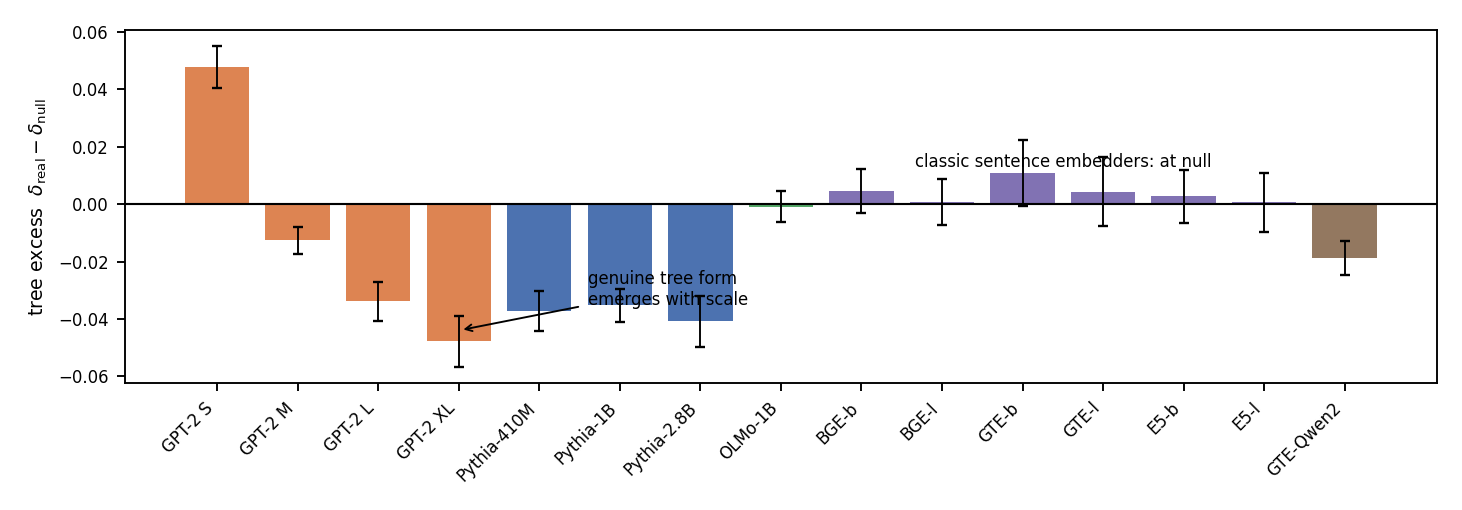
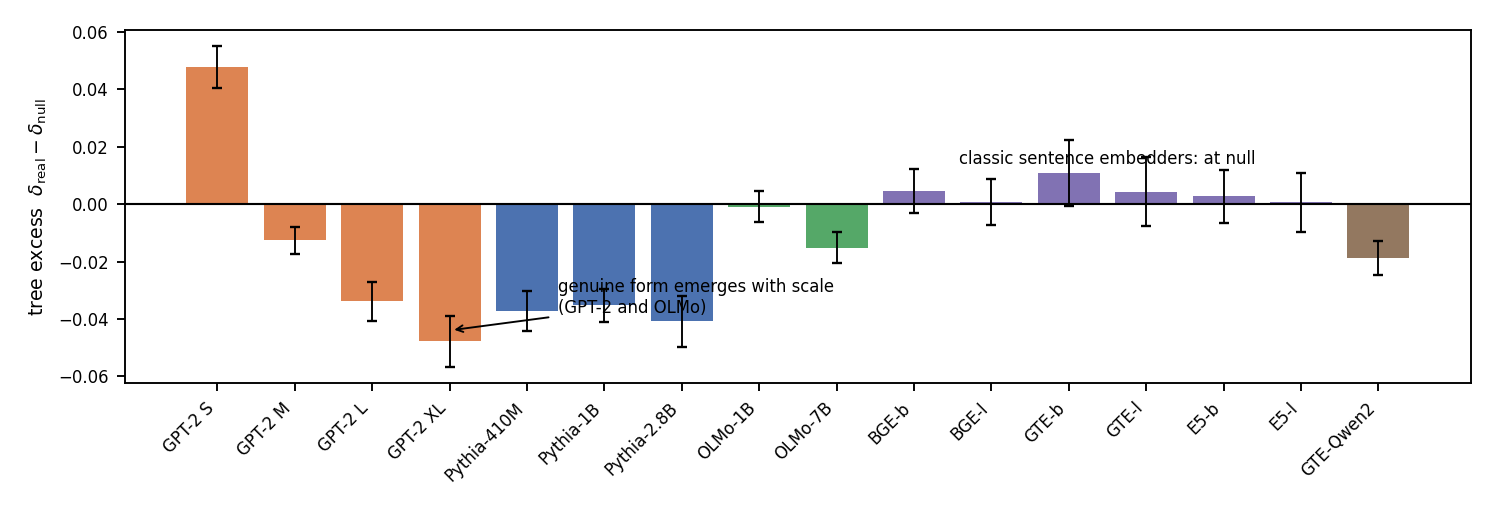
Text census complete (16/16): OLMo-7B genuine (-0.015), scale-emergence confirmed in a second family; figure, appendix table and all text updated; census now fully closed

diff --git a/iclr2027/iclr2027/main_iclr2027.tex b/iclr2027/iclr2027/main_iclr2027.tex
@@ -41,7 +41,7 @@
 \maketitle
 
 \begin{abstract}
-Foundation models are often claimed to converge toward shared representations; recent calibrated analyses show that much of that convergence reflects uncalibrated similarity measures. We ask the same question of geometry: what structure of a model's inter-class representation survives calibrated measurement, and is it shared across models? We measure tree-likeness (Gromov $\delta$-hyperbolicity, Ollivier--Ricci curvature) for class representations of frozen foundation models, calibrating every reading on reference geometries and against nulls matched in dimension and covariance spectrum, since raw $\delta$ is confounded by dimension, class count, and spectrum. Three findings emerge. (1)~Genuine tree-like \emph{form} is widespread but not universal: 69 of 72 vision model$\times$dataset combinations sit below their matched null (41 of the 48 cells with $\ge$47 classes beyond two null standard deviations), while in text it depends on the training recipe and scale, emerging monotonically with size in GPT-2 and absent in classic sentence embedders on the same probe, whose raw $\delta$ equals that of vision-contrastive models yet reflects only their covariance spectrum. Where present, the form is learned: it vanishes under random weights, weakens under non-hierarchical fine-tuning, and emerges across depth. (2)~The \emph{content} is model-specific: the most tree-like family is the least aligned with WordNet, and hyperbolic distances do not increase cross-model agreement; models converge in the form of their class geometry, not in its content. (3)~As a corollary, the calibrated descriptors support a modest, training-free decision rule: they predict when leaving Euclidean distances pays on prototype-based tasks, and the training objective selects which zero-cost metric collects the gain. A class-subsampling study shows the operative variable is the depth of hierarchy spanned by the class set, not the number of classes: tree-like form is a property of the (model, concept set) pair, and raw $\delta$ alone cannot tell you where it is.
+Foundation models are often claimed to converge toward shared representations; recent calibrated analyses show that much of that convergence reflects uncalibrated similarity measures. We ask the same question of geometry: what structure of a model's inter-class representation survives calibrated measurement, and is it shared across models? We measure tree-likeness (Gromov $\delta$-hyperbolicity, Ollivier--Ricci curvature) for class representations of frozen foundation models, calibrating every reading on reference geometries and against nulls matched in dimension and covariance spectrum, since raw $\delta$ is confounded by dimension, class count, and spectrum. Three findings emerge. (1)~Genuine tree-like \emph{form} is widespread but not universal: 69 of 72 vision model$\times$dataset combinations sit below their matched null (41 of the 48 cells with $\ge$47 classes beyond two null standard deviations), while in text it depends on the training recipe and scale, emerging with size in GPT-2 and OLMo and absent in classic sentence embedders on the same probe, whose raw $\delta$ equals that of vision-contrastive models yet reflects only their covariance spectrum. Where present, the form is learned: it vanishes under random weights, weakens under non-hierarchical fine-tuning, and emerges across depth. (2)~The \emph{content} is model-specific: the most tree-like family is the least aligned with WordNet, and hyperbolic distances do not increase cross-model agreement; models converge in the form of their class geometry, not in its content. (3)~As a corollary, the calibrated descriptors support a modest, training-free decision rule: they predict when leaving Euclidean distances pays on prototype-based tasks, and the training objective selects which zero-cost metric collects the gain. A class-subsampling study shows the operative variable is the depth of hierarchy spanned by the class set, not the number of classes: tree-like form is a property of the (model, concept set) pair, and raw $\delta$ alone cannot tell you where it is.
 \end{abstract}
 
 \section{Introduction}
@@ -55,7 +55,7 @@ Prior latent-hyperbolicity readings, including an earlier version of this work, 
 Our first contribution is therefore an \textbf{instrument}: the exact estimator calibrated on reference geometries (trees, hyperbolic regions, spheres, Gaussians of growing dimension), every reading expressed as an \emph{excess} over a null matched in dimension and covariance spectrum with a per-cell $z$-score, a parallelogram estimator of the curvature \emph{sign}, and a class-subsampling control that separates hierarchy depth from class count. With the instrument in hand, we ask the question that recent convergence work \citep{huh2024platonic, groger2026aristotelian} asks of similarity, now of geometry: \emph{what survives calibration, and is it shared across models?}
 
 The answer has two halves, which the title condenses. \textbf{Form is widespread, and where it exists it is genuine and learned:} 69 of 72 vision model$\times$dataset combinations sit below their matched null (41/48 of the $\ge$47-class cells beyond two null standard deviations), the excess deepens with model scale on transfer data, a direct curvature-sign estimator turns increasingly negative with scale for self-supervised vision, and ablations (random weights, non-hierarchical fine-tuning, layer-wise emergence, label shuffles) tie the structure to learning. % exp20_null_ztable.csv, exp12, fig3_causal
-In text, the same instrument reveals heterogeneity that raw $\delta$ hides: genuine form emerges monotonically with scale in GPT-2 (excess $+0.048 \to -0.048$ from S to XL), is present at every Pythia scale, and is absent in OLMo-1B and in classic sentence embedders on the class-name probe, although the same embedders show genuine excess on a real text hierarchy, so the form is a property of the (model, concept set) pair. % exp18, exp14
+In text, the same instrument reveals heterogeneity that raw $\delta$ hides: genuine form emerges with scale in GPT-2 (excess $+0.048 \to -0.048$ from S to XL) and in OLMo (at null at 1B, genuine at 7B), is present at every Pythia scale, and is absent in classic sentence embedders on the class-name probe, although the same embedders show genuine excess on a real text hierarchy, so the form is a property of the (model, concept set) pair. % exp18, exp14
 \textbf{Content is model-specific:} the most tree-like family (label-free DINOv2) is the \emph{least} aligned with the WordNet taxonomy, and hyperbolic distances do not increase cross-model agreement. Models converge in the form of their class geometry, not in its content. As a corollary, the descriptors support a modest, training-free metric-selection rule whose statistics we report with the caution they deserve.
 
 \textbf{Our contributions are:}
@@ -89,7 +89,7 @@ In text, the same instrument reveals heterogeneity that raw $\delta$ hides: genu
 
 This section builds the measurement layer; every later claim is stated in its units. The message: raw $\delta_{\text{norm}}$ is interpretable only against calibrated references and matched nulls.
 
-\paragraph{Class representations.} Each frozen model is a fixed feature extractor; classes are represented by centroids (vision: mean of $100$ training embeddings per class; text: embeddings of ``a photo of a \{class\}'' over the 1000 ImageNet classes, plus the corpus variations of \S\ref{sec:form}). The calibrated census covers 12 vision backbones $\times$ 6 datasets and 15 text models; 4 additional contrastive vision backbones are measured on ImageNet. % TODO-coauthors: +OLMo-7B when its run lands; final panel table in App. A
+\paragraph{Class representations.} Each frozen model is a fixed feature extractor; classes are represented by centroids (vision: mean of $100$ training embeddings per class; text: embeddings of ``a photo of a \{class\}'' over the 1000 ImageNet classes, plus the corpus variations of \S\ref{sec:form}). The calibrated census covers 12 vision backbones $\times$ 6 datasets and 16 text models; 4 additional contrastive vision backbones are measured on ImageNet. % TODO-coauthors: confirm final panel counting; panel table in App. A
 Estimator settings: $5{\times}10^5$ quadruples per seed, 10 seeds (exact enumeration when $C\le 30$); ORC on $k{=}10$ kNN graphs (ranking invariant for $k\in\{5,\dots,50\}$).
 
 \begin{table}[t]
@@ -134,13 +134,13 @@ iid Gaussian, $n{=}1000$, $d{=}192/768/1536$ & --- & 0.104/0.061/0.046 \\
 \paragraph{Vision: 69/72 cells, stated at two levels.} Sign: 69 of 72 cells have negative excess; the three exceptions are DINOv2-S/B/G on ImageNet, their pretraining-like distribution, and none of the three is significantly \emph{above} its null. Significance: 51/72 cells lie beyond two null standard deviations, and on the $\ge$47-class datasets 41/48 do (34/48 beyond three); the flat $C{=}10$ datasets are sign-consistent (24/24) but underpowered at that $C$, a resolution limit the class-count control below quantifies. Per-cell values, $z$-scores and Holm-corrected verdicts are in Appendix~\ref{app:tables}. % exp20_null_ztable.csv
 On ImageNet, supervised ViTs sit at excess $-0.015$ to $-0.040$ and CLIP/SigLIP at $-0.016$ to $-0.030$; DINOv2-L is sign-negative but marginal there ($z=-1.1$), while on transfer datasets the same family shows the strongest excess of the panel, deepening with scale (S$\to$G on CIFAR-10: $-0.087\to-0.146$; Figure~\ref{fig:excess}b). The curvature sign agrees: every model sits below the iid-Gaussian reference, and DINOv2 crosses into negative territory monotonically with scale ($\xi=-0.020\to-0.070$, 66\%$\to$89\% negative triangles S$\to$G), while supervised and contrastive families remain mildly positive yet far below the sphere band. % exp11, exp12
 
-\paragraph{Text: the instrument reveals what raw $\delta$ hides.} Figure~\ref{fig:textnulls} is the census that raw readings cannot deliver. Within causal LMs, genuine form \emph{emerges monotonically with scale} in GPT-2 (excess $+0.048$ at S, $-0.013$ at M, $-0.034$ at L, $-0.048$ at XL): the smallest model is significantly \emph{less} tree-like than its spectrum twin, the largest significantly more. Pythia carries genuine form at every scale ($-0.035$ to $-0.041$); OLMo-1B sits at its null ($-0.001$). Classic sentence embedders (BGE/GTE/E5, base and large) sit at their nulls on this probe ($+0.001$ to $+0.011$) despite raw $\delta_{\text{norm}}$ values ($0.114$--$0.124$) indistinguishable from vision-contrastive models whose excess is genuine: \emph{identical raw values, opposite verdicts}, the cleanest demonstration that the uncalibrated scale is not interpretable. The only LLM-backboned embedder tested (GTE-Qwen2-1.5B) is genuine ($-0.019$). % exp18_text_nulls.csv
+\paragraph{Text: the instrument reveals what raw $\delta$ hides.} Figure~\ref{fig:textnulls} is the census that raw readings cannot deliver. Within causal LMs, genuine form \emph{emerges with scale} in two independent families: monotonically in GPT-2 (excess $+0.048$ at S, $-0.013$ at M, $-0.034$ at L, $-0.048$ at XL), where the smallest model is significantly \emph{less} tree-like than its spectrum twin and the largest significantly more, and in OLMo, at null at 1B ($-0.001$) and genuine at 7B ($-0.015$). Pythia carries genuine form at every scale ($-0.035$ to $-0.041$). Classic sentence embedders (BGE/GTE/E5, base and large) sit at their nulls on this probe ($+0.001$ to $+0.011$) despite raw $\delta_{\text{norm}}$ values ($0.114$--$0.124$) indistinguishable from vision-contrastive models whose excess is genuine: \emph{identical raw values, opposite verdicts}, the cleanest demonstration that the uncalibrated scale is not interpretable. The only LLM-backboned embedder tested (GTE-Qwen2-1.5B) is genuine ($-0.019$). % exp18_text_nulls.csv
 Two scopes: causal-LM geometry is template-sensitive (reported as template-conditioned; range up to $.065$ across eleven templates, while embedders vary by $\le.012$ including a definition-only template with no class names), and the same embedders that sit at null on class-name prompts show genuine excess ($-0.020$ to $-0.028$) on a real three-level text hierarchy (DBpedia), so presence of form is a property of the (model, concept set) pair. % exp4+exp17, exp14
 
 \begin{figure}[t]
 \centering
 \includegraphics[width=0.9\linewidth]{figures/fig_text_nulls.pdf}
-\caption{The calibrated text census (excess with combined null+estimator error bars): genuine form emerges with scale in GPT-2, is constant in Pythia, absent in OLMo-1B, and absent in classic sentence embedders on the class-name probe, whose raw $\delta$ equals that of genuinely structured vision models. % exp18_text_nulls.csv
+\caption{The calibrated text census (excess with combined null+estimator error bars): genuine form emerges with scale in GPT-2 and OLMo, is constant in Pythia, and is absent in classic sentence embedders on the class-name probe, whose raw $\delta$ equals that of genuinely structured vision models. % exp18_text_nulls.csv
 }
 \label{fig:textnulls}
 \end{figure}
@@ -201,8 +201,7 @@ Sample-level tasks do not benefit anywhere: kNN loses $2.6$pp on average and sam
 
 \paragraph{Excess measures existence; raw $\delta_{\text{norm}}$ predicts exploitability.} The two dissociate in both directions (DINOv2 on ImageNet: at null yet positive FS gains; DBpedia embedders: genuine excess yet no meaningful gain). The corollary rule uses the raw descriptor because that is what predicts the task contrast; the excess is the existence proof. Conflating them overstates both.
 
-\paragraph{Limitations.} (i)~We estimate the curvature sign, never a value; descriptive claims concern tree-like metric structure. (ii)~The vision census is class-centroid geometry on six datasets; other concept sets may expose different slices of structure, as the probe-dependence of the embedder verdicts shows. (iii)~Causal-LM geometry is template-conditioned. (iv)~The objective-vs-geometry link is correlational across families; the matched-architecture triplet bounds but does not close it. (v)~OLMo-7B is not yet measured (compute constraint); the text census covers 15 models. % TODO update when olmo_7b lands
-(vi)~Downstream scope is prototype-based metric tasks with modest gains; dense prediction, cross-modal retrieval and end-to-end hyperbolic training are out of scope (training-time methods such as MERU are the tools there). (vii)~Low-dimensional visualizations (Figure~\ref{fig:tree}) are illustrations; all quantitative comparisons are made in the full feature space.
+\paragraph{Limitations.} (i)~We estimate the curvature sign, never a value; descriptive claims concern tree-like metric structure. (ii)~The vision census is class-centroid geometry on six datasets; other concept sets may expose different slices of structure, as the probe-dependence of the embedder verdicts shows. (iii)~Causal-LM geometry is template-conditioned. (iv)~The objective-vs-geometry link is correlational across families; the matched-architecture triplet bounds but does not close it. (v)~Downstream scope is prototype-based metric tasks with modest gains; dense prediction, cross-modal retrieval and end-to-end hyperbolic training are out of scope (training-time methods such as MERU are the tools there). (vi)~Low-dimensional visualizations (Figure~\ref{fig:tree}) are illustrations; all quantitative comparisons are made in the full feature space.
 
 \begin{figure}[h]
   \centering

diff --git a/iclr2027/iclr2027/fig_text_nulls.py b/iclr2027/iclr2027/fig_text_nulls.py
@@ -1,0 +1,38 @@
+#!/usr/bin/env python3
+"""Text-census figure: excess per text model with combined null+estimator error
+bars. Source: exp18_text_nulls.csv."""
+import csv
+import numpy as np
+import matplotlib; matplotlib.use("Agg")
+import matplotlib.pyplot as plt
+from pathlib import Path
+
+rows = list(csv.DictReader(open("/home/javi/Platonic/rebuttal/results/exp18_text_nulls.csv")))
+order = ["gpt2","gpt2_m","gpt2_l","gpt2_xl","pythia_410m","pythia_1b","pythia_2b8",
+         "olmo_1b","olmo_7b","bge_base","bge_large","gte_base","gte_large",
+         "e5_base","e5_large","gte_qwen2"]
+NAME = {"gpt2":"GPT-2 S","gpt2_m":"GPT-2 M","gpt2_l":"GPT-2 L","gpt2_xl":"GPT-2 XL",
+        "pythia_410m":"Pythia-410M","pythia_1b":"Pythia-1B","pythia_2b8":"Pythia-2.8B",
+        "olmo_1b":"OLMo-1B","olmo_7b":"OLMo-7B","bge_base":"BGE-b","bge_large":"BGE-l",
+        "gte_base":"GTE-b","gte_large":"GTE-l","e5_base":"E5-b","e5_large":"E5-l",
+        "gte_qwen2":"GTE-Qwen2"}
+d = {r["model"]: r for r in rows}
+order = [m for m in order if m in d]
+exc = [float(d[m]["excess"]) for m in order]
+err = [np.sqrt(float(d[m]["null_sd"])**2 + float(d[m]["delta_sd"])**2) for m in order]
+col = (["#DD8452"]*4 + ["#4C72B0"]*3 + ["#55A868"]*2 + ["#8172B3"]*6 + ["#937860"])[:len(order)]
+
+fig, ax = plt.subplots(figsize=(8.8, 3.0))
+x = np.arange(len(order))
+ax.bar(x, exc, yerr=err, color=col, capsize=2, error_kw=dict(lw=0.8))
+ax.axhline(0, color="k", lw=0.9)
+ax.set_xticks(x, [NAME[m] for m in order], rotation=45, ha="right", fontsize=7)
+ax.set_ylabel(r"tree excess  $\delta_{\rm real}-\delta_{\rm null}$", fontsize=8)
+ax.tick_params(labelsize=7)
+ax.annotate("genuine form emerges with scale\n(GPT-2 and OLMo)", xy=(3, -0.044),
+            xytext=(4.4, -0.038), fontsize=7, arrowprops=dict(arrowstyle="->", lw=0.8))
+ax.annotate("classic sentence embedders: at null", xy=(11.5, 0.014), fontsize=7, ha="center")
+fig.tight_layout()
+out = Path(__file__).parent / "figures"
+fig.savefig(out/"fig_text_nulls.pdf"); fig.savefig(out/"fig_text_nulls.png", dpi=170)
+print("fig_text_nulls regenerated with", len(order), "models")

diff --git a/rebuttal/scripts/exp18_text_nulls.py b/rebuttal/scripts/exp18_text_nulls.py
@@ -34,7 +34,7 @@ MODELS = [
     ("pythia_1b",  "causal", "EleutherAI/pythia-1b",                None,   "", True),
     ("pythia_2b8", "causal", "EleutherAI/pythia-2.8b",              None,   "", True),
     ("olmo_1b",    "causal", "allenai/OLMo-1B-hf",                  None,   "", True),
-    # ("olmo_7b", "causal", "allenai/OLMo-7B-hf", None, "", True),  # skipped: 27GB download does not fit on this disk (filled the partition on 20-ago); note in the report
+    ("olmo_7b",    "causal", "allenai/OLMo-7B-hf",                  None,   "", True),  # relaunched 21-ago after freeing 46GB
     ("bge_base",   "embed",  "BAAI/bge-base-en-v1.5",               "cls",  "", False),
     ("bge_large",  "embed",  "BAAI/bge-large-en-v1.5",              "cls",  "", False),
     ("gte_base",   "embed",  "thenlper/gte-base",                   "mean", "", False),

diff --git a/iclr2027/iclr2027/appendix_tables/tab_b1_textnulls.tex b/iclr2027/iclr2027/appendix_tables/tab_b1_textnulls.tex
@@ -20,6 +20,7 @@ GTE-large & embedder & 1024 & 0.120$\pm$0.012 & 0.116$\pm$0.003 & +0.004 \\
 GTE-Qwen2-1.5B & embedder & 1536 & 0.107$\pm$0.004 & 0.126$\pm$0.004 & -0.019 \\
 E5-base & embedder & 768 & 0.115$\pm$0.007 & 0.112$\pm$0.005 & +0.003 \\
 E5-large & embedder & 1024 & 0.114$\pm$0.010 & 0.113$\pm$0.003 & +0.001 \\
+OLMo-7B & causal LM & 4096 & 0.093$\pm$0.005 & 0.108$\pm$0.002 & -0.015 \\
 \bottomrule
 \end{tabular}
 \caption{Text models under the calibrated protocol (1000 ImageNet class prompts): $\delta_{\text{norm}}$, spectrum-matched null (3 reps) and excess. Source: \texttt{exp18\_text\_nulls.csv}.}
